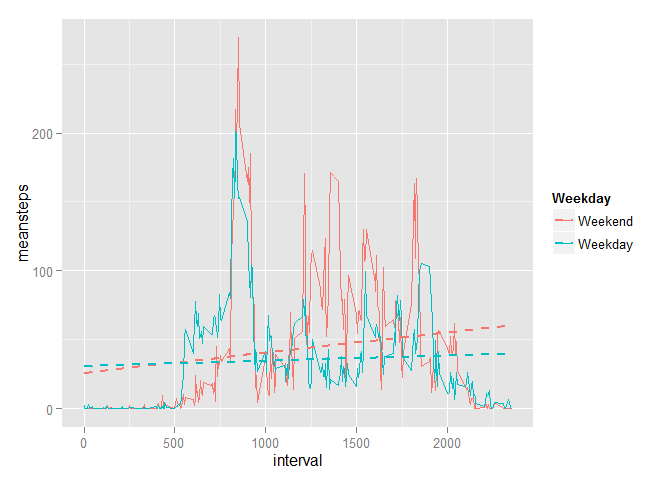
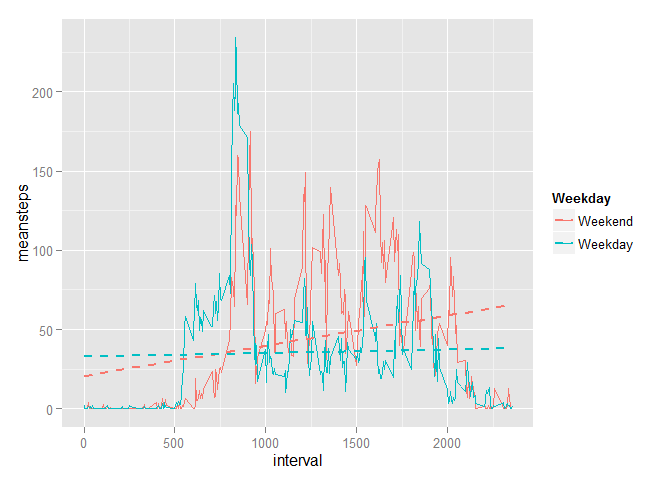
Final commit (again)

diff --git a/PA1_template.html b/PA1_template.html
@@ -217,18 +217,29 @@ grid.arrange(hist1,hist2, ncol=2, main='Comparison of histograms for original da
 </div>
 <div id="are-there-differences-in-activity-patterns-between-weekdays-and-weekends" class="section level2">
 <h2>Are there differences in activity patterns between weekdays and weekends?</h2>
-<pre class="r"><code>activity$weekday &lt;- ifelse(wday(activity$date) %in% c(6,7), 0,1)
+<pre class="r"><code># Add column weekday to original data, with weekday=0 and weekend=1 
+activity$weekday &lt;- ifelse(wday(activity$date) %in% c(1,7), 0,1)
 
+# group by interval and summarise with mean.
 differences &lt;- summarise(group_by(activity, weekday, interval), meansteps=mean(steps, na.rm=T))
 
-ggplot(differences, aes(x=interval, y=meansteps, group=weekday, color=factor(weekday))) +
+head(filter(activity, weekday==0))</code></pre>
+<pre><code>##   steps       date interval weekday
+## 1     0 2012-10-06        0       0
+## 2     0 2012-10-06        5       0
+## 3     0 2012-10-06       10       0
+## 4     0 2012-10-06       15       0
+## 5     0 2012-10-06       20       0
+## 6     0 2012-10-06       25       0</code></pre>
+<pre class="r"><code>ggplot(differences, aes(x=interval, y=meansteps, group=weekday, color=factor(weekday))) +
   geom_line() +
   geom_smooth(method=&quot;lm&quot;, se=FALSE, lty=2, lwd=1) +
   scale_color_discrete(name=&quot;Weekday&quot;,
                          labels=c(&quot;Weekend&quot;, &quot;Weekday&quot;))</code></pre>
[1 lines of base64/hex data omitted]
-<p>This comparison was constructed by taking the mean steps for all weekdays and weekends grouped by interval of the original data (not the imputed one) and following the notion of weekday and weekend activity of a hypothetical human.</p>
-<p>From the chart it is somewhat difficult to conclude something about the actual pattern, but upon closer inspection and addition of trend lines, it is very clear that during weekends the activity almost stays flat compared to weekdays.</p>
[1 lines of base64/hex data omitted]
+<p>This comparison was constructed by taking the mean steps for all weekdays and weekends grouped by interval of the original data (not the imputed one) and following the notion of weekday and weekend activity of a hypothetical human throughout the day.</p>
+<p>From the regression lines in the chart it is clear that during weekdays human activity almost stays flat, and that on weekends it increases substantially, even though the maximum number of steps are still taken at around 8:30 during weekdays. This could be explained by sedentarism in the workplace during weekdays, and increased outdoor activity during weekends, but a deeper analysis and further data gathering (like consumption patterns and geographical data) should be done before jumping to this conclusion.</p>
+<p>This concludes the small analysis for the 1st Peer-assessed course project for the ‘Reproducible Research’ MOOC.</p>
 </div>
 
 

diff --git a/PA1_template.md b/PA1_template.md
@@ -192,10 +192,26 @@ These are the interesting observations of both imputed and original data and the
 
 
 ```r
-activity$weekday <- ifelse(wday(activity$date) %in% c(6,7), 0,1)
+# Add column weekday to original data, with weekday=0 and weekend=1 
+activity$weekday <- ifelse(wday(activity$date) %in% c(1,7), 0,1)
 
+# group by interval and summarise with mean.
 differences <- summarise(group_by(activity, weekday, interval), meansteps=mean(steps, na.rm=T))
 
+head(filter(activity, weekday==0))
+```
+
+```
+##   steps       date interval weekday
+## 1     0 2012-10-06        0       0
+## 2     0 2012-10-06        5       0
+## 3     0 2012-10-06       10       0
+## 4     0 2012-10-06       15       0
+## 5     0 2012-10-06       20       0
+## 6     0 2012-10-06       25       0
+```
+
+```r
 ggplot(differences, aes(x=interval, y=meansteps, group=weekday, color=factor(weekday))) +
   geom_line() +
   geom_smooth(method="lm", se=FALSE, lty=2, lwd=1) +
@@ -205,6 +221,8 @@ ggplot(differences, aes(x=interval, y=meansteps, group=weekday, color=factor(wee
 
 ![](PA1_template_files/figure-html/differences-1.png) 
 
-This comparison was constructed by taking the mean steps for all weekdays and weekends grouped by interval of the original data (not the imputed one) and following the notion of weekday and weekend activity of a hypothetical human.
+This comparison was constructed by taking the mean steps for all weekdays and weekends grouped by interval of the original data (not the imputed one) and following the notion of weekday and weekend activity of a hypothetical human throughout the day.
 
-From the chart it is somewhat difficult to conclude something about the actual pattern, but upon closer inspection and addition of trend lines, it is very clear that during weekends the activity almost stays flat compared to weekdays.
+From the regression lines in the chart it is clear that during weekdays human activity almost stays flat, and that on weekends it increases substantially, even though the maximum number of steps are still taken at around 8:30 during weekdays. This could be explained by sedentarism in the workplace during weekdays, and increased outdoor activity during weekends, but a deeper analysis and further data gathering (like consumption patterns and geographical data) should be done before jumping to this conclusion.    
+
+This concludes the small analysis for the 1st Peer-assessed course project for the 'Reproducible Research' MOOC.
